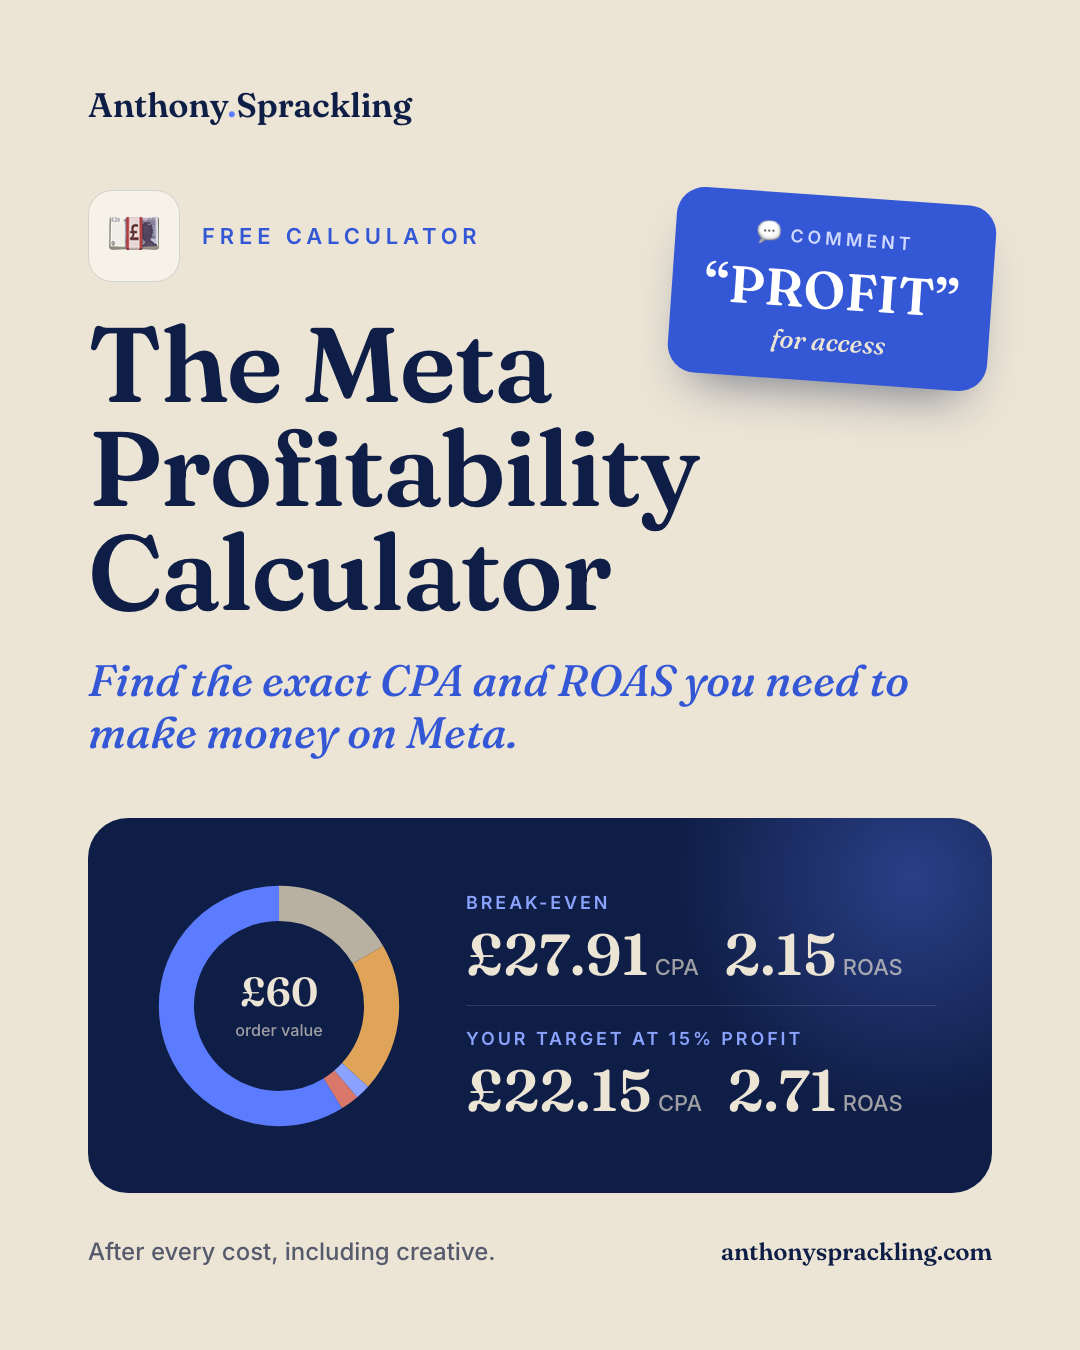
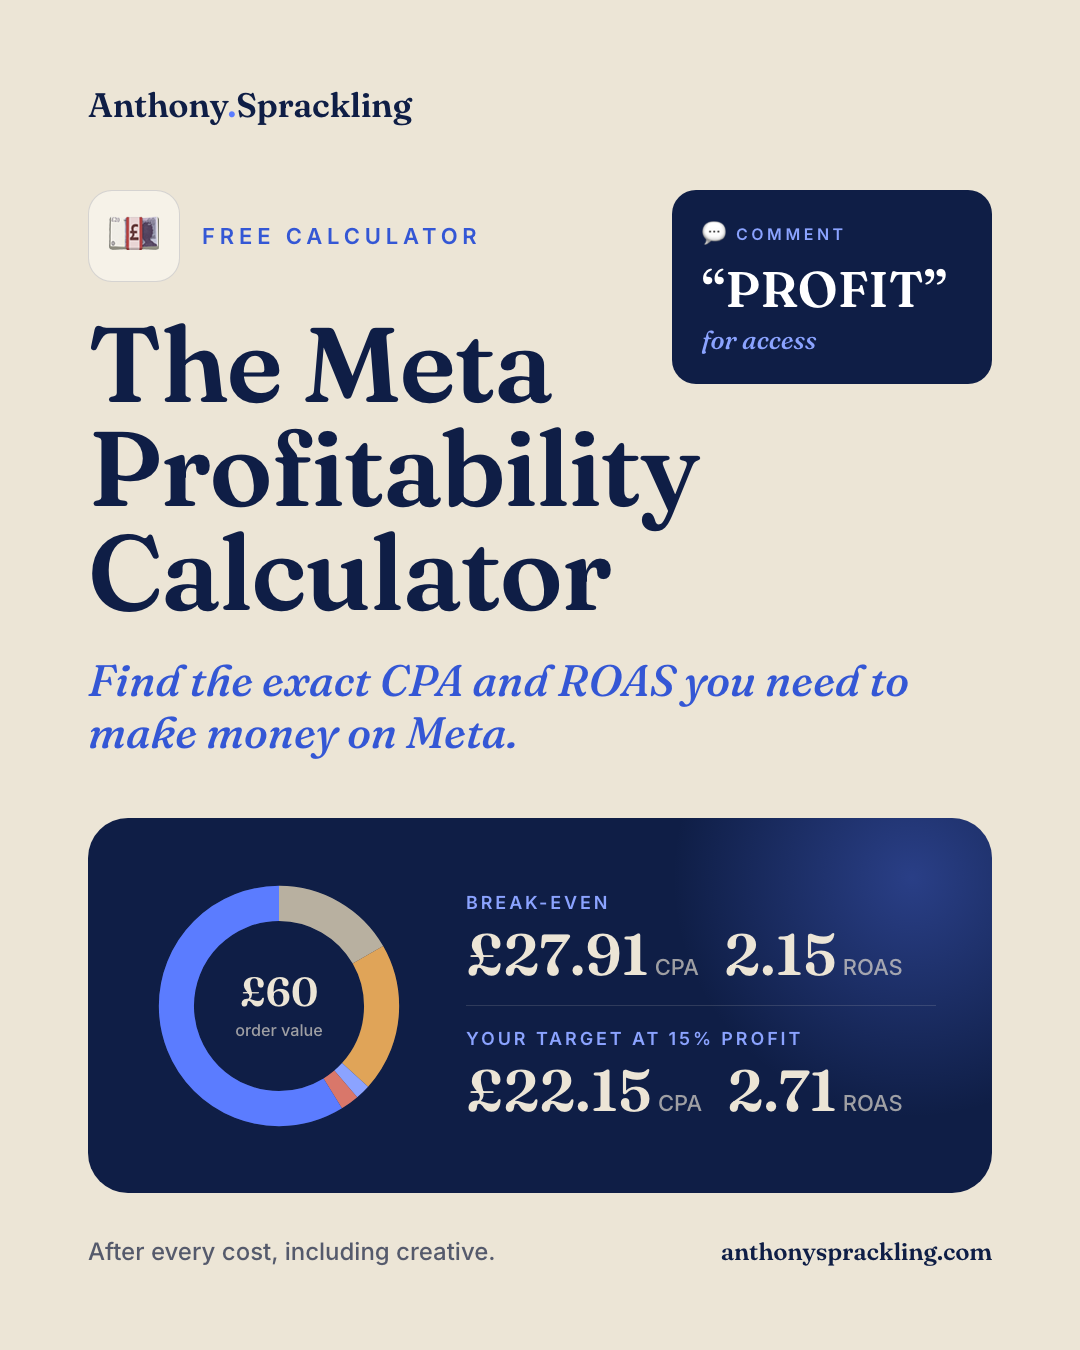
LinkedIn image: straighten and align Comment PROFIT box

Changed region(s): [[0.6111, 0.1244, 0.9472, 0.3111]]

diff --git a/_src/social/portrait.html b/_src/social/portrait.html
@@ -37,11 +37,11 @@ h1{margin-top:30px;font-size:106px}
 .stat .num{margin-top:12px;font-size:58px}
 .stat .num small{font-size:22px;margin-left:6px}
 .foot{margin-top:44px;font-size:24px}
-.cta{position:absolute;top:196px;right:88px;width:320px;padding:26px 28px 24px;border-radius:28px;background:#3457d5;color:#ece5d6;transform:rotate(4deg);box-shadow:0 28px 50px -24px rgba(15,30,70,.55);text-align:center}
-.cta .lab{display:flex;align-items:center;justify-content:center;gap:10px;font-weight:600;font-size:18px;letter-spacing:.22em;text-transform:uppercase;color:#cfd9ff}
+.cta{position:absolute;top:190px;right:88px;width:320px;padding:28px 30px;border-radius:24px;background:#0f1e46;color:#ece5d6;text-align:left}
+.cta .lab{display:flex;align-items:center;gap:10px;font-weight:600;font-size:16px;letter-spacing:.22em;text-transform:uppercase;color:#8ba3ff}
 .cta .lab i{font-style:normal;font-family:"Apple Color Emoji";letter-spacing:0;font-size:24px}
-.cta .word{display:block;margin-top:10px;font-family:Fraunces;font-weight:600;font-size:52px;line-height:1;letter-spacing:0;color:#fff;white-space:nowrap}
-.cta .tail{display:block;margin-top:10px;font-family:Fraunces;font-style:italic;font-weight:500;font-size:26px;color:#ece5d6}
+.cta .word{display:block;margin-top:14px;font-family:Fraunces;font-weight:600;font-size:50px;line-height:1;color:#fff;white-space:nowrap}
+.cta .tail{display:block;margin-top:10px;font-family:Fraunces;font-style:italic;font-weight:500;font-size:26px;color:#8ba3ff}
 </style></head><body>
 <div class="cta"><div class="lab"><i>&#x1F4AC;</i>Comment</div><span class="word">&ldquo;PROFIT&rdquo;</span><span class="tail">for access</span></div>
 <div class="top"><div class="brand">Anthony<span>.</span>Sprackling</div></div>
